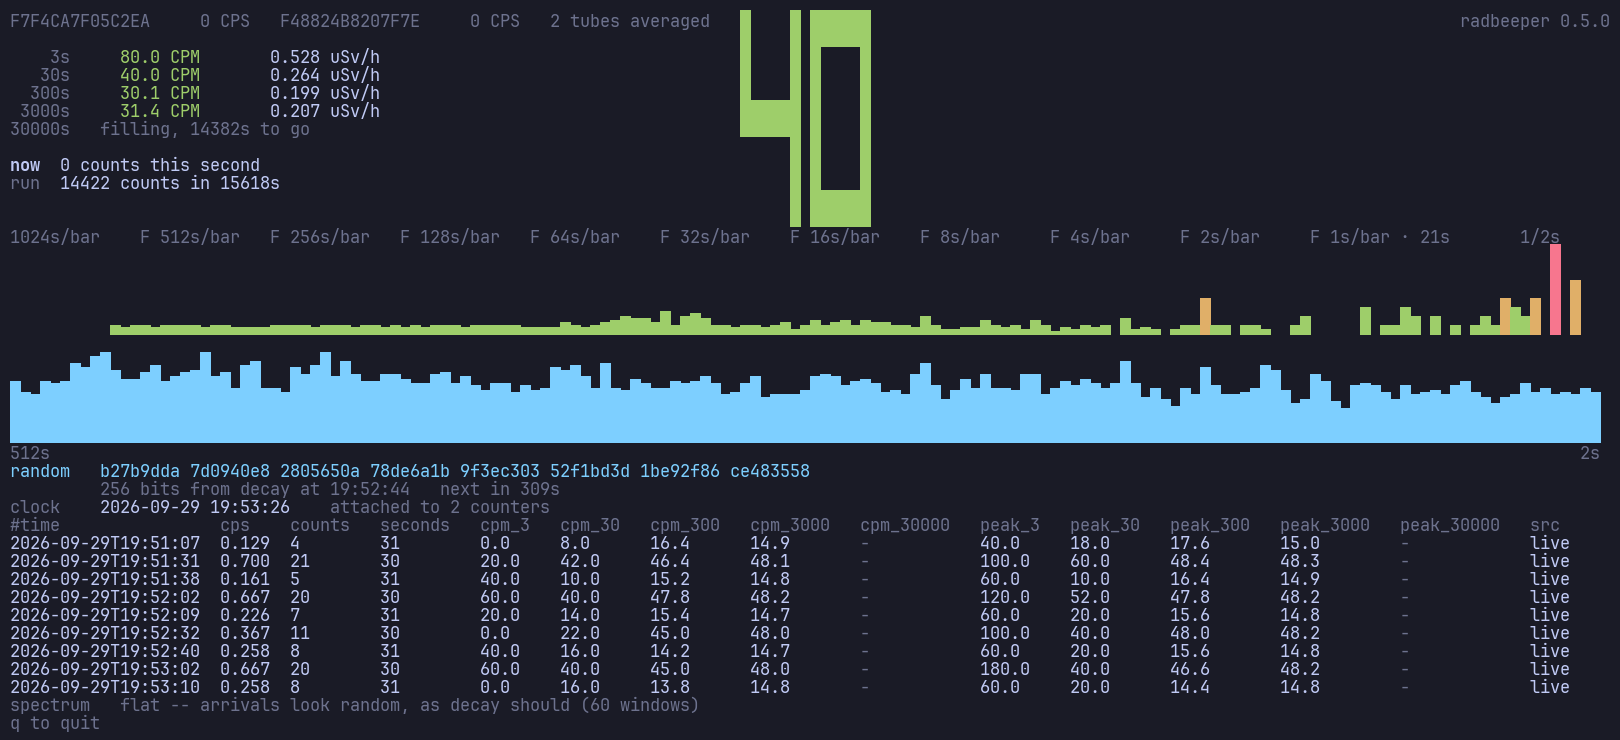
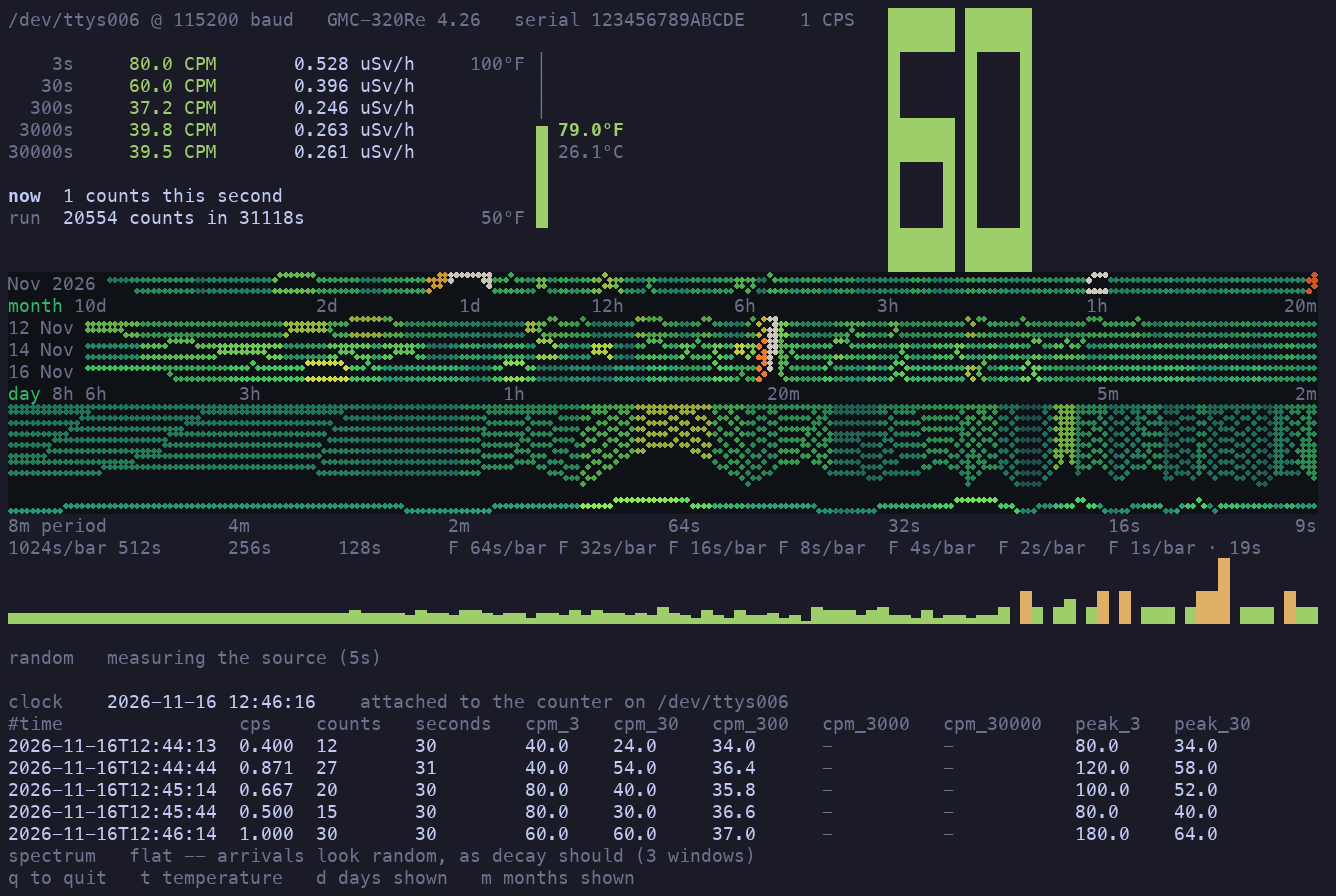
Documents and pictures for the day and month drums, the temperature and the terminal's drum
README: the monitor's section says what it now draws and gives its keys;
the window's table has the thermometer, the tiles and the long papers; a
line says the pictures are of made-up logs with rhythms put in on purpose
and that the moving picture at the top is older. watch.png and
gui-drum-window.png are retaken, 16 November, over those logs, and
watch-temperature.png is new. The site's front page has two more entries,
in src/site.rs and tools/landing.py alike, which the oracle test holds to
the same characters. docs/reading-the-window.md has the same four things
in brief. The two packages' descriptions say what they now do; the first
still said four time constants, and there have been five for some time.

The pictures were taken on a Mac, the window's by its own --shot and the
monitor's through a scratch renderer, because tools/record.py draws
neither 24-bit colour nor Braille; so their font is not the one the
release tools use on Linux. gui.gif and the two drum clips are not
retaken: they are twenty-two minutes each on a Linux desktop.

diff --git a/src/site.rs b/src/site.rs
@@ -708,6 +708,16 @@ seconds. The counter's own memory is read back to fill in the time nothing
 was listening, and the whole record becomes a web page with one
 command.</p></div>
 
+<div class="fact"><h2>Days, weeks and months back</h2><p>Above the live
+chart, the same paper with <strong>a line for every day and every
+month</strong> the counter has logged, there the moment the window opens.
+What comes round once an hour shows as a stripe through the days.</p></div>
+
+<div class="fact"><h2>The temperature too</h2><p>A GMC-320 has a thermometer.
+It is read between two counts, logged beside them, and drawn
+<strong>a line a day</strong>, today against yesterday, in &deg;F and
+&deg;C.</p></div>
+
 <div class="fact"><h2>One counter or several</h2><p>Plug in a second and both
 are read, with nothing to set. The reading gets more precise, each keeps its
 own log, and one that stops answering is left out until it

diff --git a/tools/landing.py b/tools/landing.py
@@ -417,6 +417,16 @@ seconds. The counter's own memory is read back to fill in the time nothing
 was listening, and the whole record becomes a web page with one
 command.</p></div>
 
+<div class="fact"><h2>Days, weeks and months back</h2><p>Above the live
+chart, the same paper with <strong>a line for every day and every
+month</strong> the counter has logged, there the moment the window opens.
+What comes round once an hour shows as a stripe through the days.</p></div>
+
+<div class="fact"><h2>The temperature too</h2><p>A GMC-320 has a thermometer.
+It is read between two counts, logged beside them, and drawn
+<strong>a line a day</strong>, today against yesterday, in &deg;F and
+&deg;C.</p></div>
+
 <div class="fact"><h2>One counter or several</h2><p>Plug in a second and both
 are read, with nothing to set. The reading gets more precise, each keeps its
 own log, and one that stops answering is left out until it

diff --git a/README.md b/README.md
@@ -94,8 +94,18 @@ radbeeper watch
 ![the monitor](https://raw.githubusercontent.com/vonglurt/radbeeper/main/docs/screenshots/watch.png)
 
 Everything on one screen of a terminal: the reading in large digits, the five
-averages, the strip of counts, the check for rhythms, and the rows as they
-are written to the log.
+averages, a small thermometer, the drum spectrogram with a line for each day
+and each month above it, the strip of counts, and the rows as they are
+written to the log.
+
+| Key | |
+|---|---|
+| `d` | the day paper: shown, folded to one row, off |
+| `m` | the month paper, the same |
+| `t` | the temperature, ten days of it, a line a day |
+| `q` | quit |
+
+![the temperature in a terminal](https://raw.githubusercontent.com/vonglurt/radbeeper/main/docs/screenshots/watch-temperature.png)
 
 ---
 
@@ -111,12 +121,19 @@ radbeeper-gui
 |---|---|
 | **The counters** | Which counters are connected, and what each counted in the last second. An empty space means that counter has stopped answering. |
 | **The dials** | The reading as a needle. The coloured bands are *nominal*, *advisory*, *warning* and *deadly*. |
+| **The thermometer** | The counter's own temperature, top right, in °F and °C. Click it for ten days of it. |
+| **The tiles** | A chart you have folded away, small, under the big number. Click one to open it. |
 | **The big number** | Counts per minute over the last half minute, how precise that is, and the dose rate. |
 | **The averages** | The same reading over 3 seconds, 30 seconds, 5 minutes, 50 minutes and a working day. |
-| **The striped chart** | The check for rhythms. Mostly green is the good answer. See [Reading the drum spectrogram](docs/reading-the-drum-spectrogram.md). |
+| **The striped chart** | The check for rhythms. Mostly green is the good answer. The lines at its top are whole days, and above them whole months. See [Reading the drum spectrogram](docs/reading-the-drum-spectrogram.md). |
 | **The counts** | A bar for each second on the right, with older counts packed closer together to the left. The line over the bars is the trend. **Point at a bar** to see when it was and what it read. |
 | **The key** | The newest random number, and which counter it came from. |
 | **The table** | The trend line in numbers: for each panel of the counts, where the trend is now, its average over that panel, and its high and low, in CPM. |
+
+The pictures of the window and the monitor on this page were taken on 16
+November 2026 over made-up logs with rhythms put in on purpose, so there is
+something to see; a real room is mostly green. The moving picture at the top
+is older and shows the window before the day and month papers.
 
 The window follows your desktop's light or dark theme, and fits whatever
 space it is given: in a small window the table goes first and the charts

diff --git a/docs/reading-the-window.md b/docs/reading-the-window.md
@@ -22,4 +22,24 @@ The window follows the desktop's light or dark theme, and fits whatever
 space it is given: in a small window the table goes first and the charts
 last.
 
+**Added 16 November 2026: the thermometer, the tiles and the long papers.**
+
+- **The thermometer**, top right, is the counter's own, on a scale from 50 to
+  100 °F with the reading in °F and °C. It is there only when a counter has
+  given a temperature. Click it, or press `t`, for the temperature drum.
+- **The striped chart has three papers.** The live one at the foot is as it
+  was. Above it is a line for each day, and above that a line for each month.
+  They are full when the window opens, because they are made from the log.
+- **A tile** is a paper folded away: click a paper, or press `d`, `m` or `t`,
+  and it becomes a small picture of itself under the big number; click the
+  tile to open it again.
+- **The averages and the long bars of the counts are full at once.** When
+  the window opens it reads the last hours of the log, so the 3000-second and
+  30000-second averages do not start from nothing. Bars finer than 32
+  seconds stay empty for the stretch that came from the log. With two
+  counters this is not done.
+
+[Reading the drum spectrogram](reading-the-drum-spectrogram.md) has the
+pictures.
+
 [← back to the overview](../README.md)
